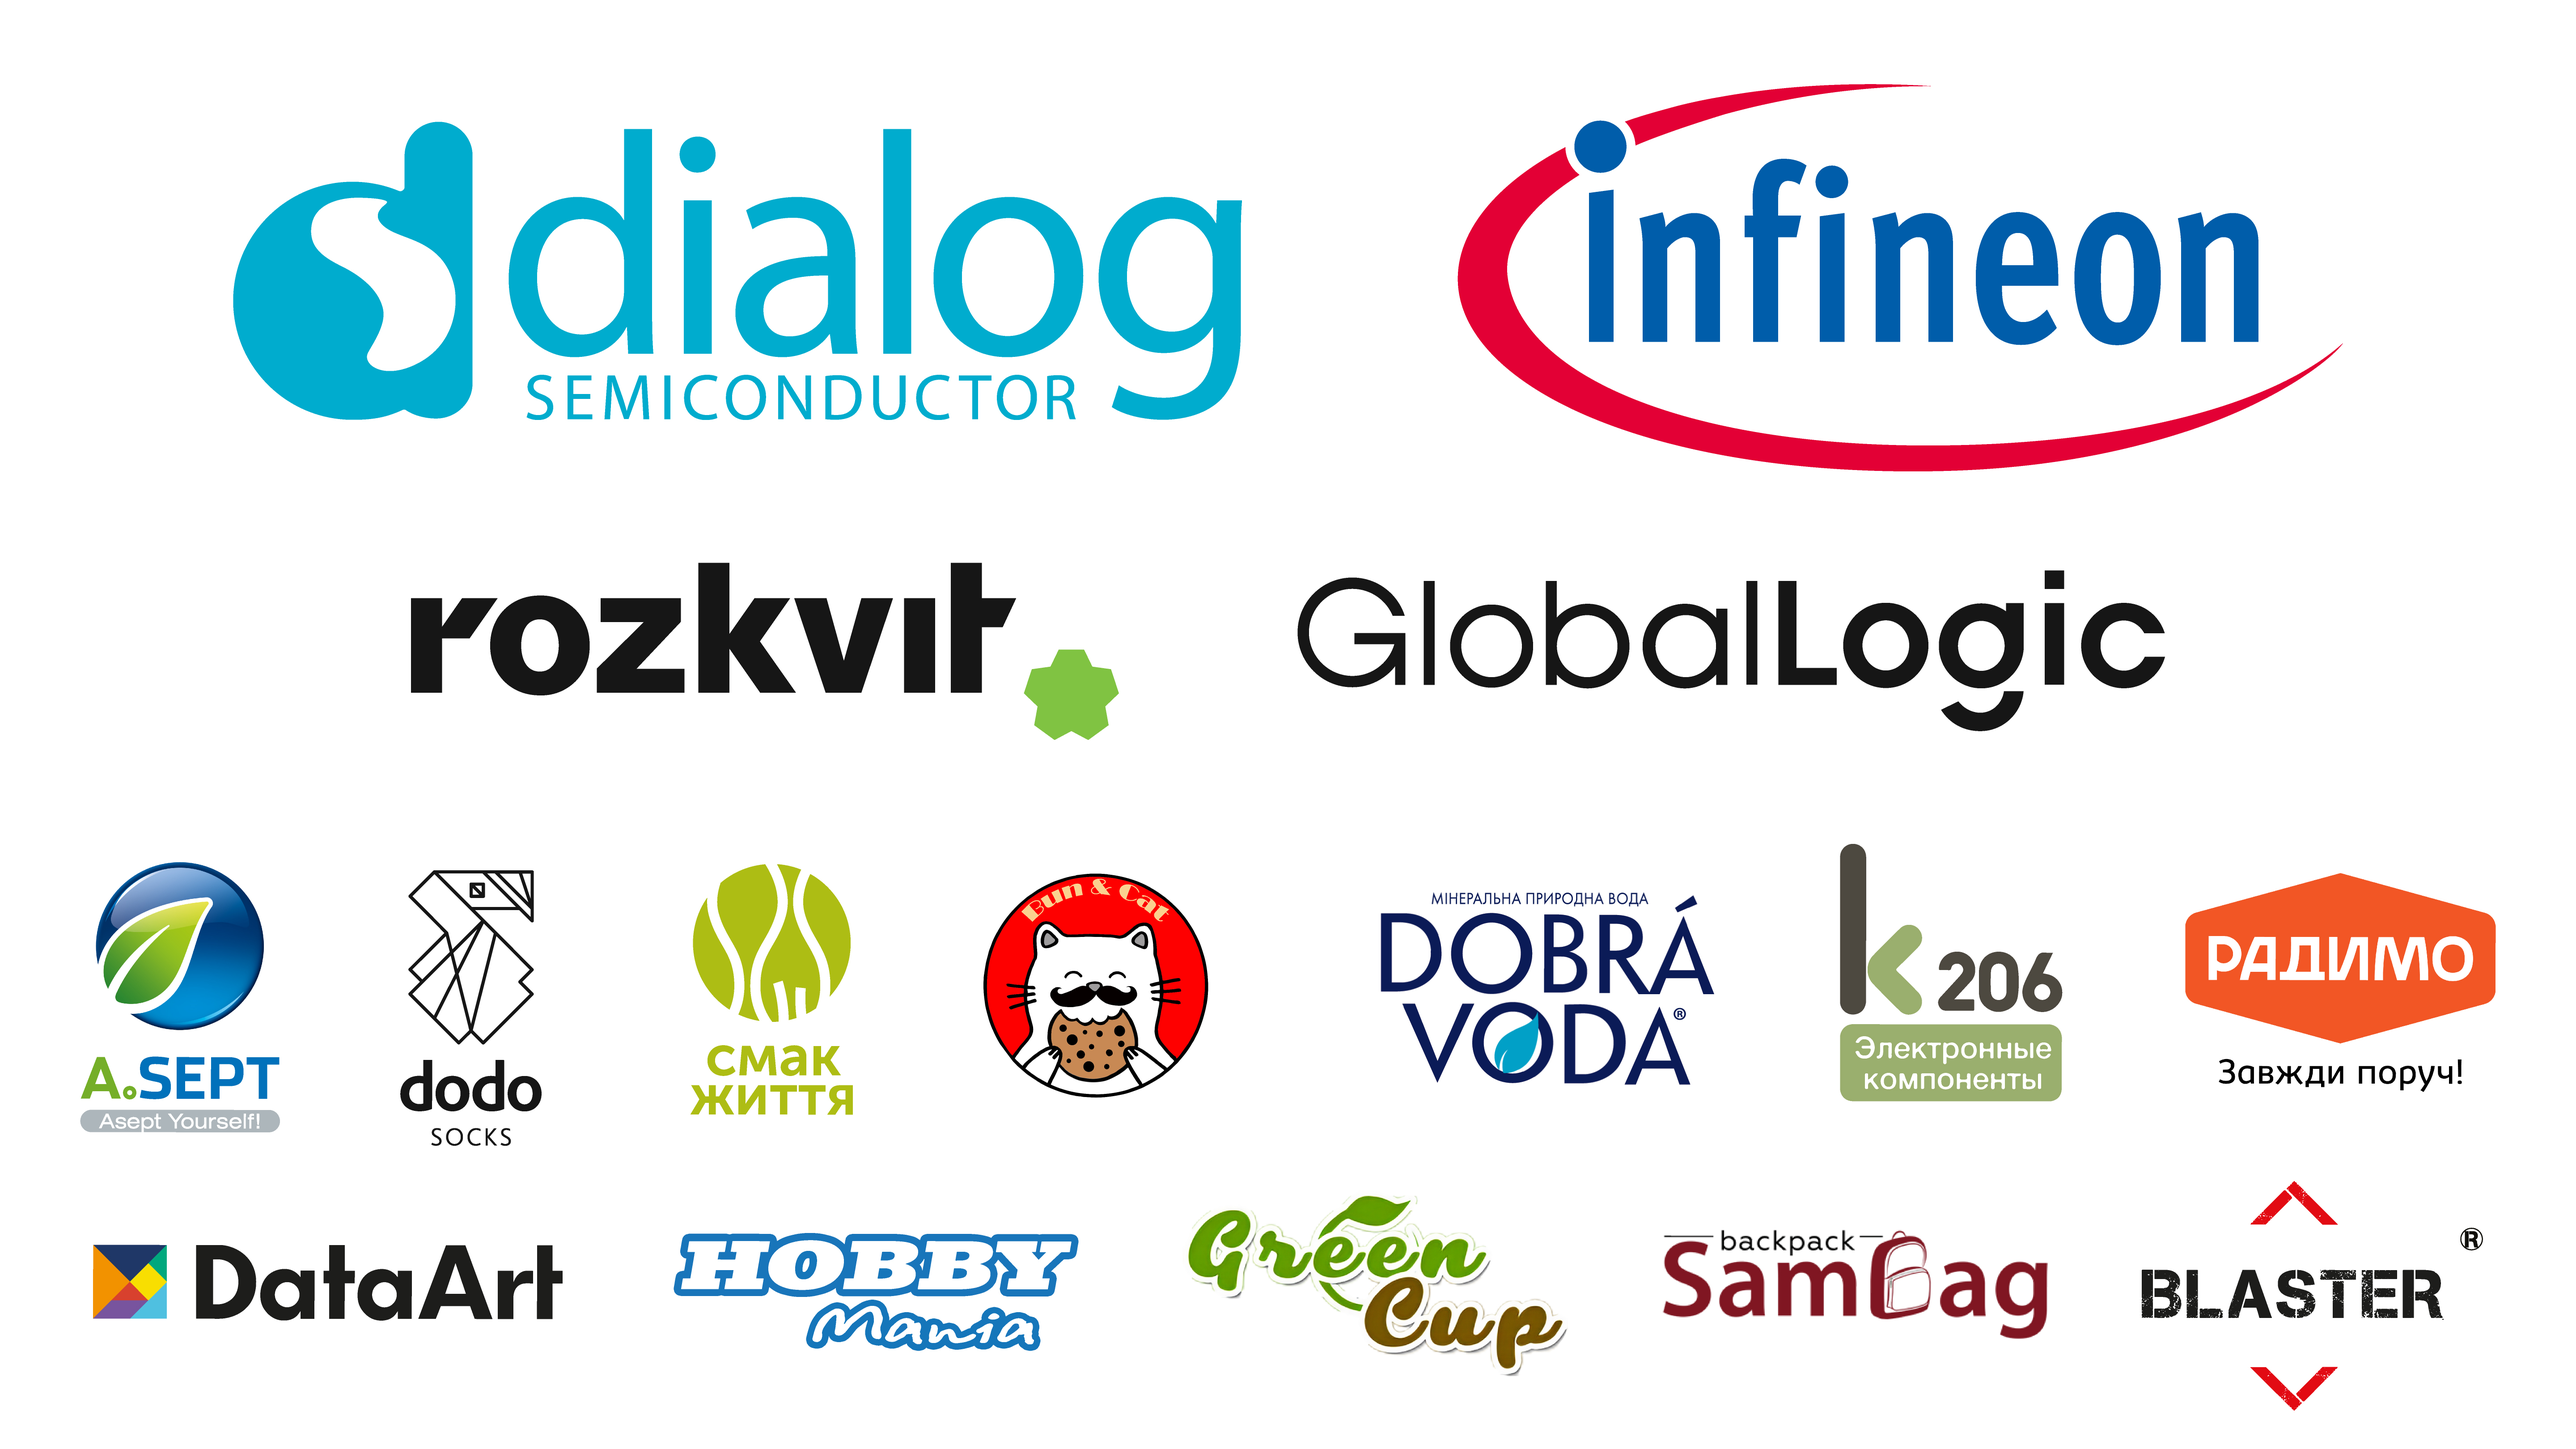
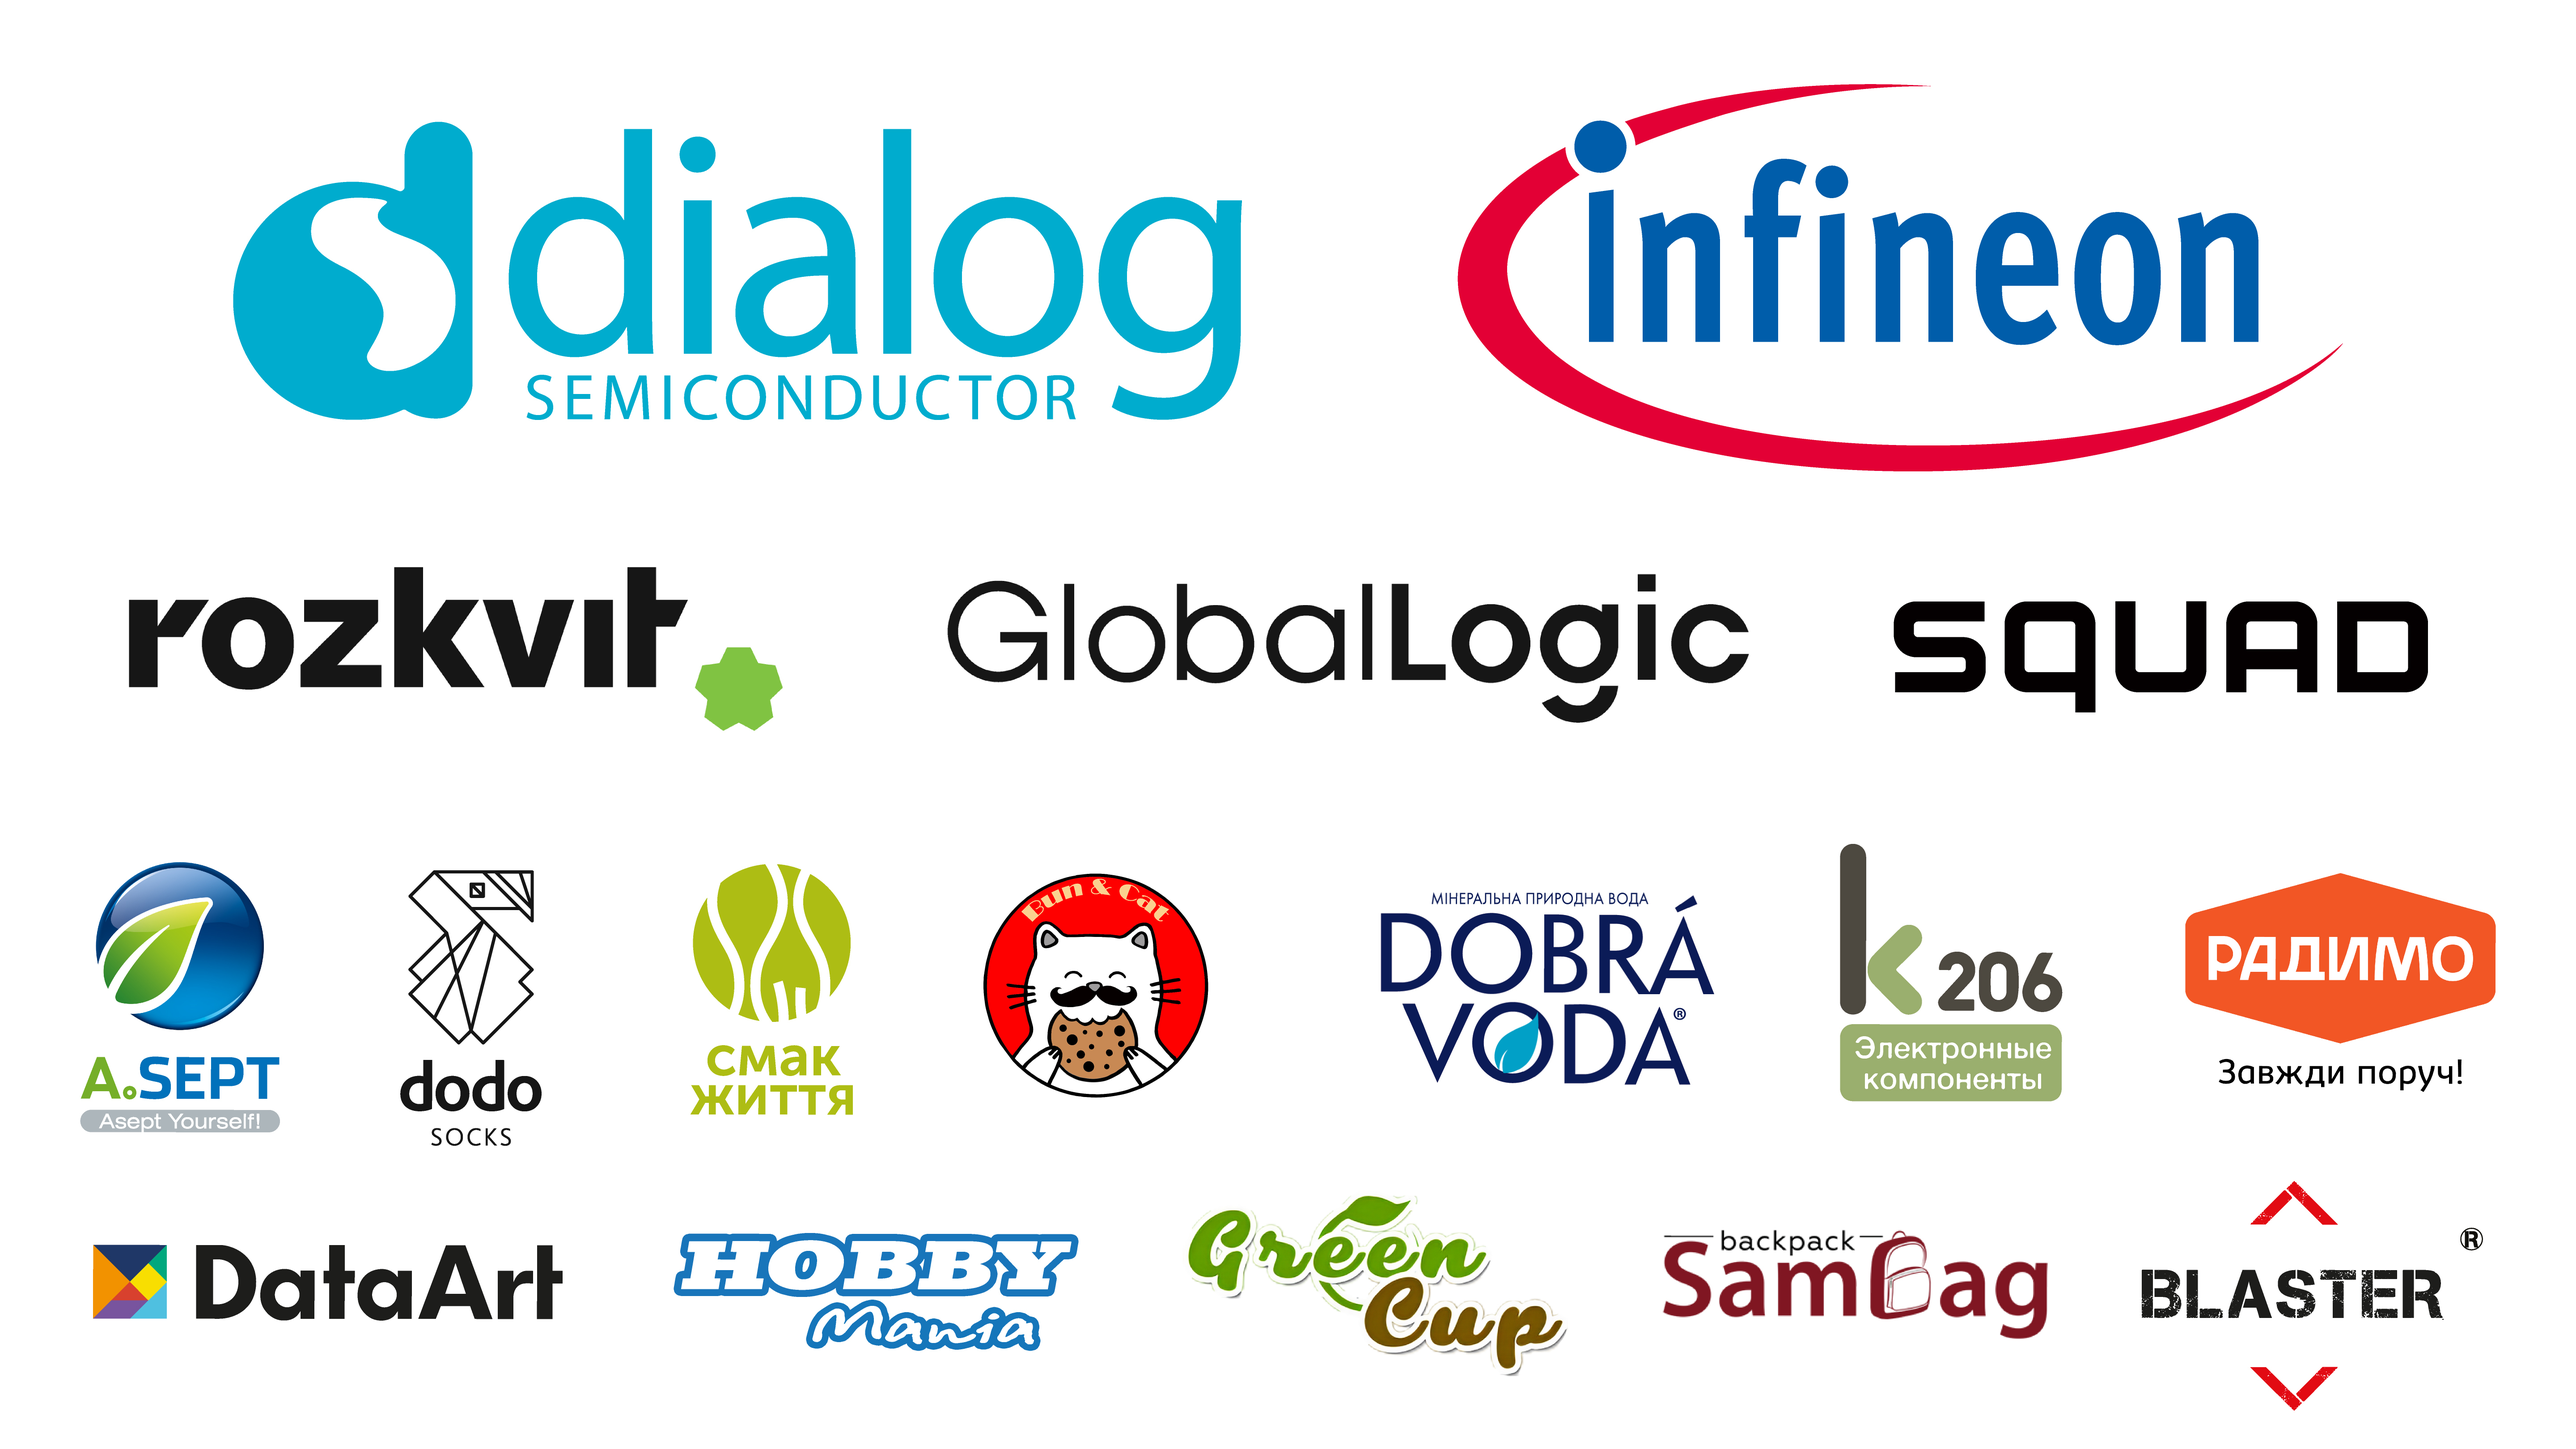
added squad company

Changed region(s): [[0.0312, 0.3741, 0.9688, 0.5299]]

diff --git a/index.html b/index.html
@@ -239,6 +239,18 @@ Infineon designs, develops and produces a broad portfolio of semiconductors and 
         </div>
         <div class="col-xl-6 col-12 order-xl-1 order-0 img-div shadow-div partner-txt-blk" style="background-image: url(img/partners/new/rozkvit.svg);"></div>
     </div>
+    <div class="row mx-0 my-5">
+        <div class="col-xl-5 col-12 order-xl-0 order-1 d-flex flex-column align-items-end ml-auto mt-5 px-md-5 px-4">
+            <h1 class="header-text mb-4">Squad</h1>
+            <p class="text-right font-20">SQUAD - це команда висококваліфікованих розробників та інженерів, яка працює над створенням сучасних якісних IT продуктів.
+Ми об’єднуємо талановитих спеціалістів у галузі IT і створюємо середовище для втілення нових ідей і відкриттів. Ми віримо, що синергія найкращих і творчого середовища вирішить будь-який глобальний виклик.
+Forget good. Do great in SQUAD.</p>
+            <div class="col-md-6 col-12 p-0">
+                <a href=" https://squad.ua/"><button class="btn mt-4 w-100">Вебсайт</button></a>
+            </div>
+        </div>
+        <div class="col-xl-6 col-12 order-xl-1 order-0 img-div shadow-div partner-txt-blk" style="background-image: url(img/partners/new/logo_squad.png);"></div>
+    </div>
 
     <footer class="bg-dark">
         <div class="container-fluid p-5">
